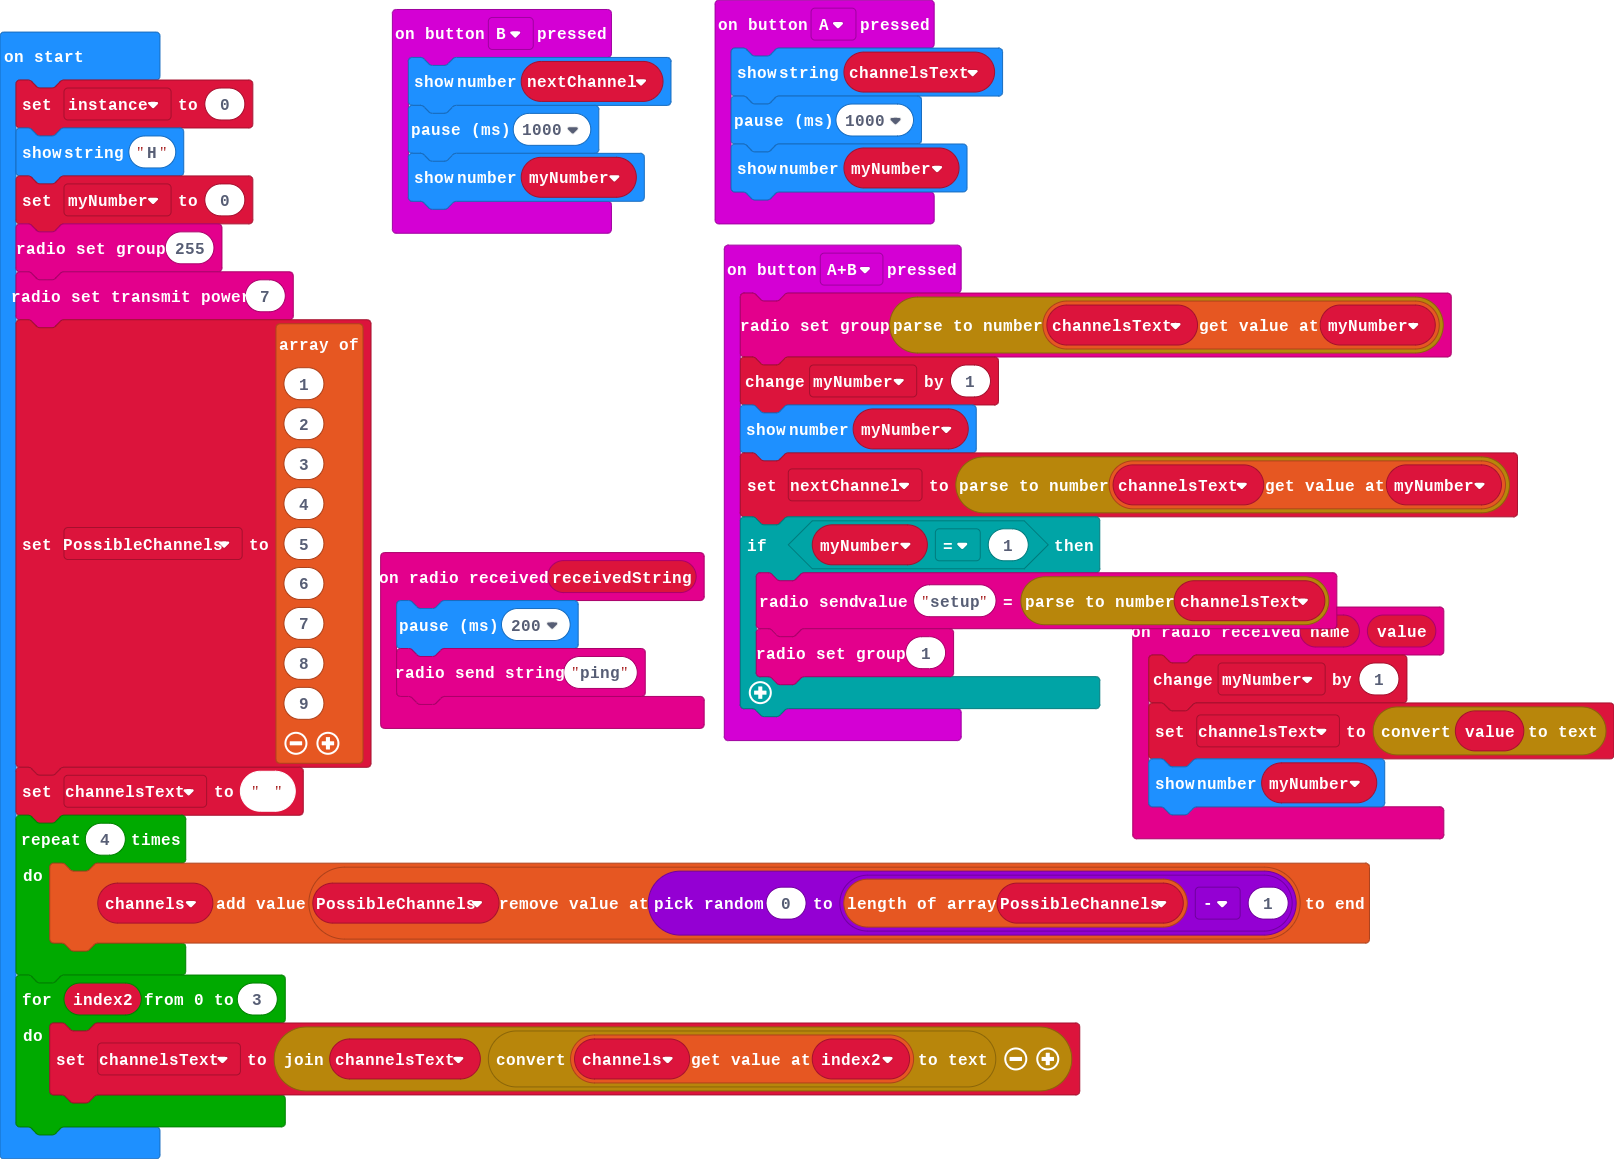
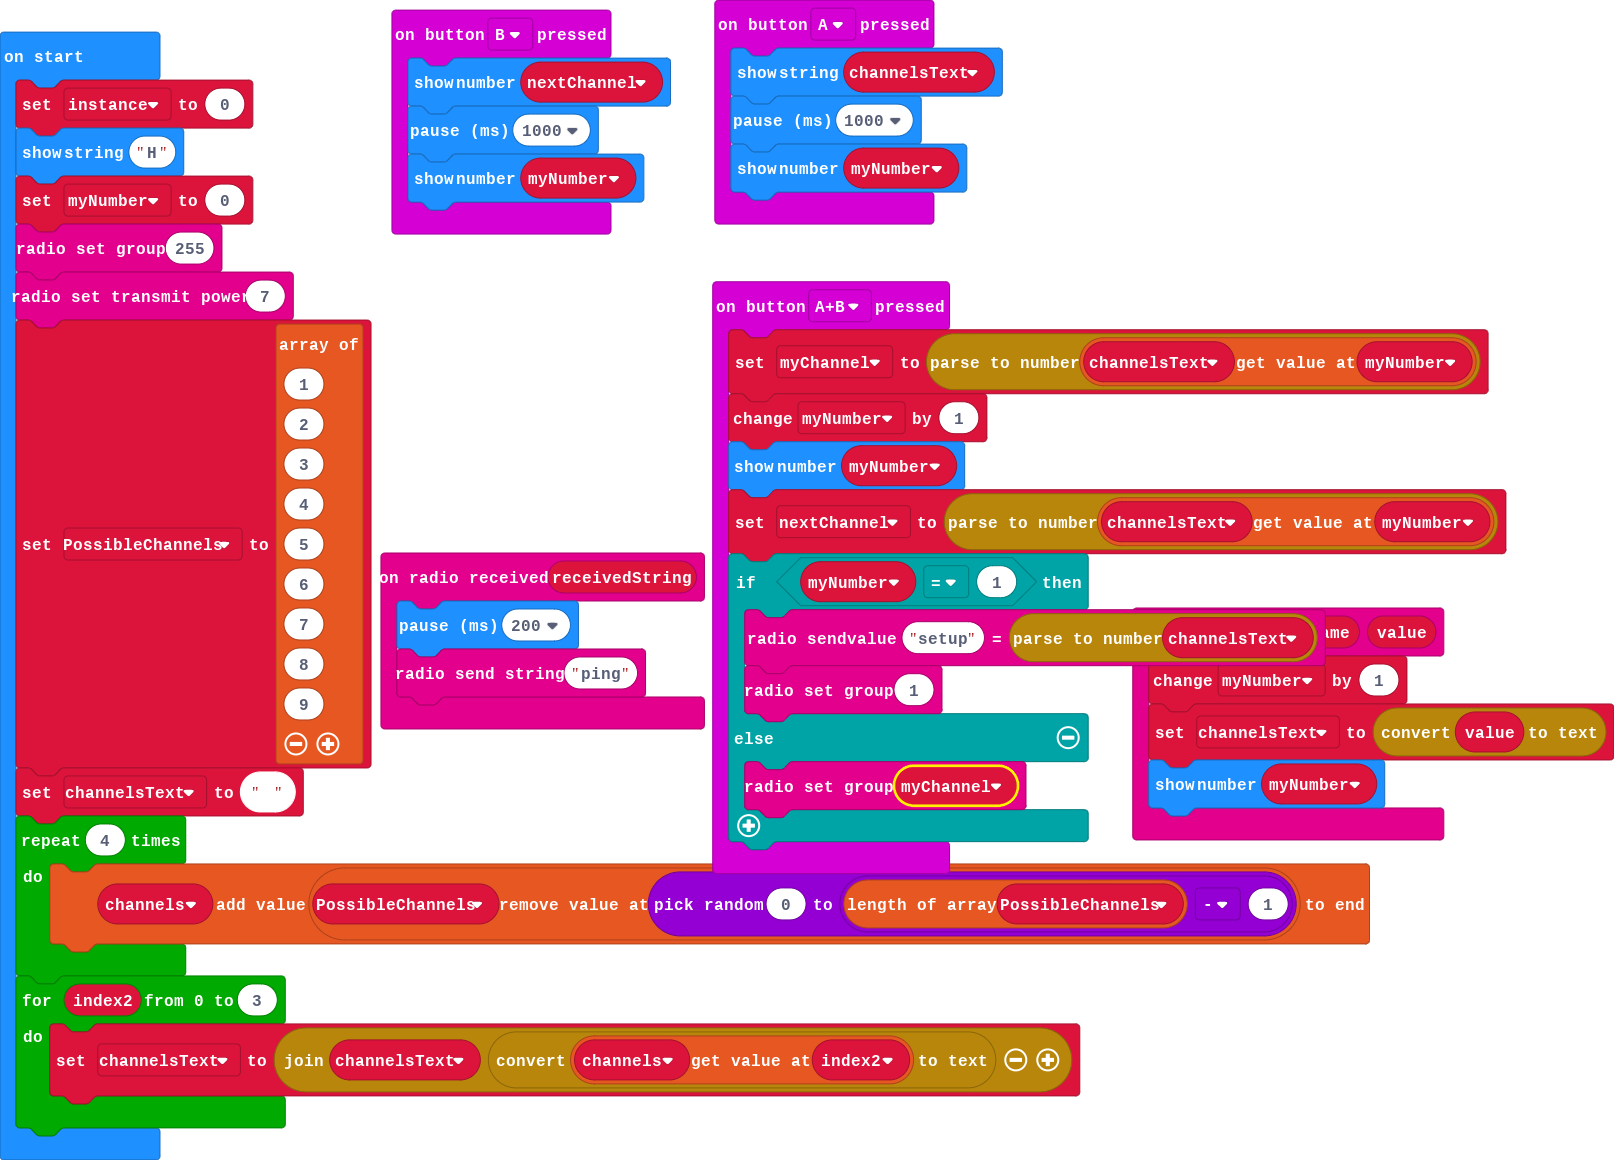
Update main.blocks, main.ts

diff --git a/main.ts b/main.ts
@@ -8,13 +8,15 @@ radio.onReceivedString(function (receivedString) {
     radio.sendString("ping")
 })
 input.onButtonPressed(Button.AB, function () {
-    radio.setGroup(parseFloat(channelsText[myNumber]))
+    myChannel = parseFloat(channelsText[myNumber])
     myNumber += 1
     basic.showNumber(myNumber)
     nextChannel = parseFloat(channelsText[myNumber])
     if (myNumber == 1) {
         radio.sendValue("setup", parseFloat(channelsText))
         radio.setGroup(1)
+    } else {
+        radio.setGroup(myChannel)
     }
 })
 input.onButtonPressed(Button.B, function () {
@@ -28,6 +30,7 @@ input.onButtonPressed(Button.A, function () {
     basic.showNumber(myNumber)
 })
 let nextChannel = 0
+let myChannel = 0
 let channels: number[] = []
 let channelsText = ""
 let myNumber = 0
